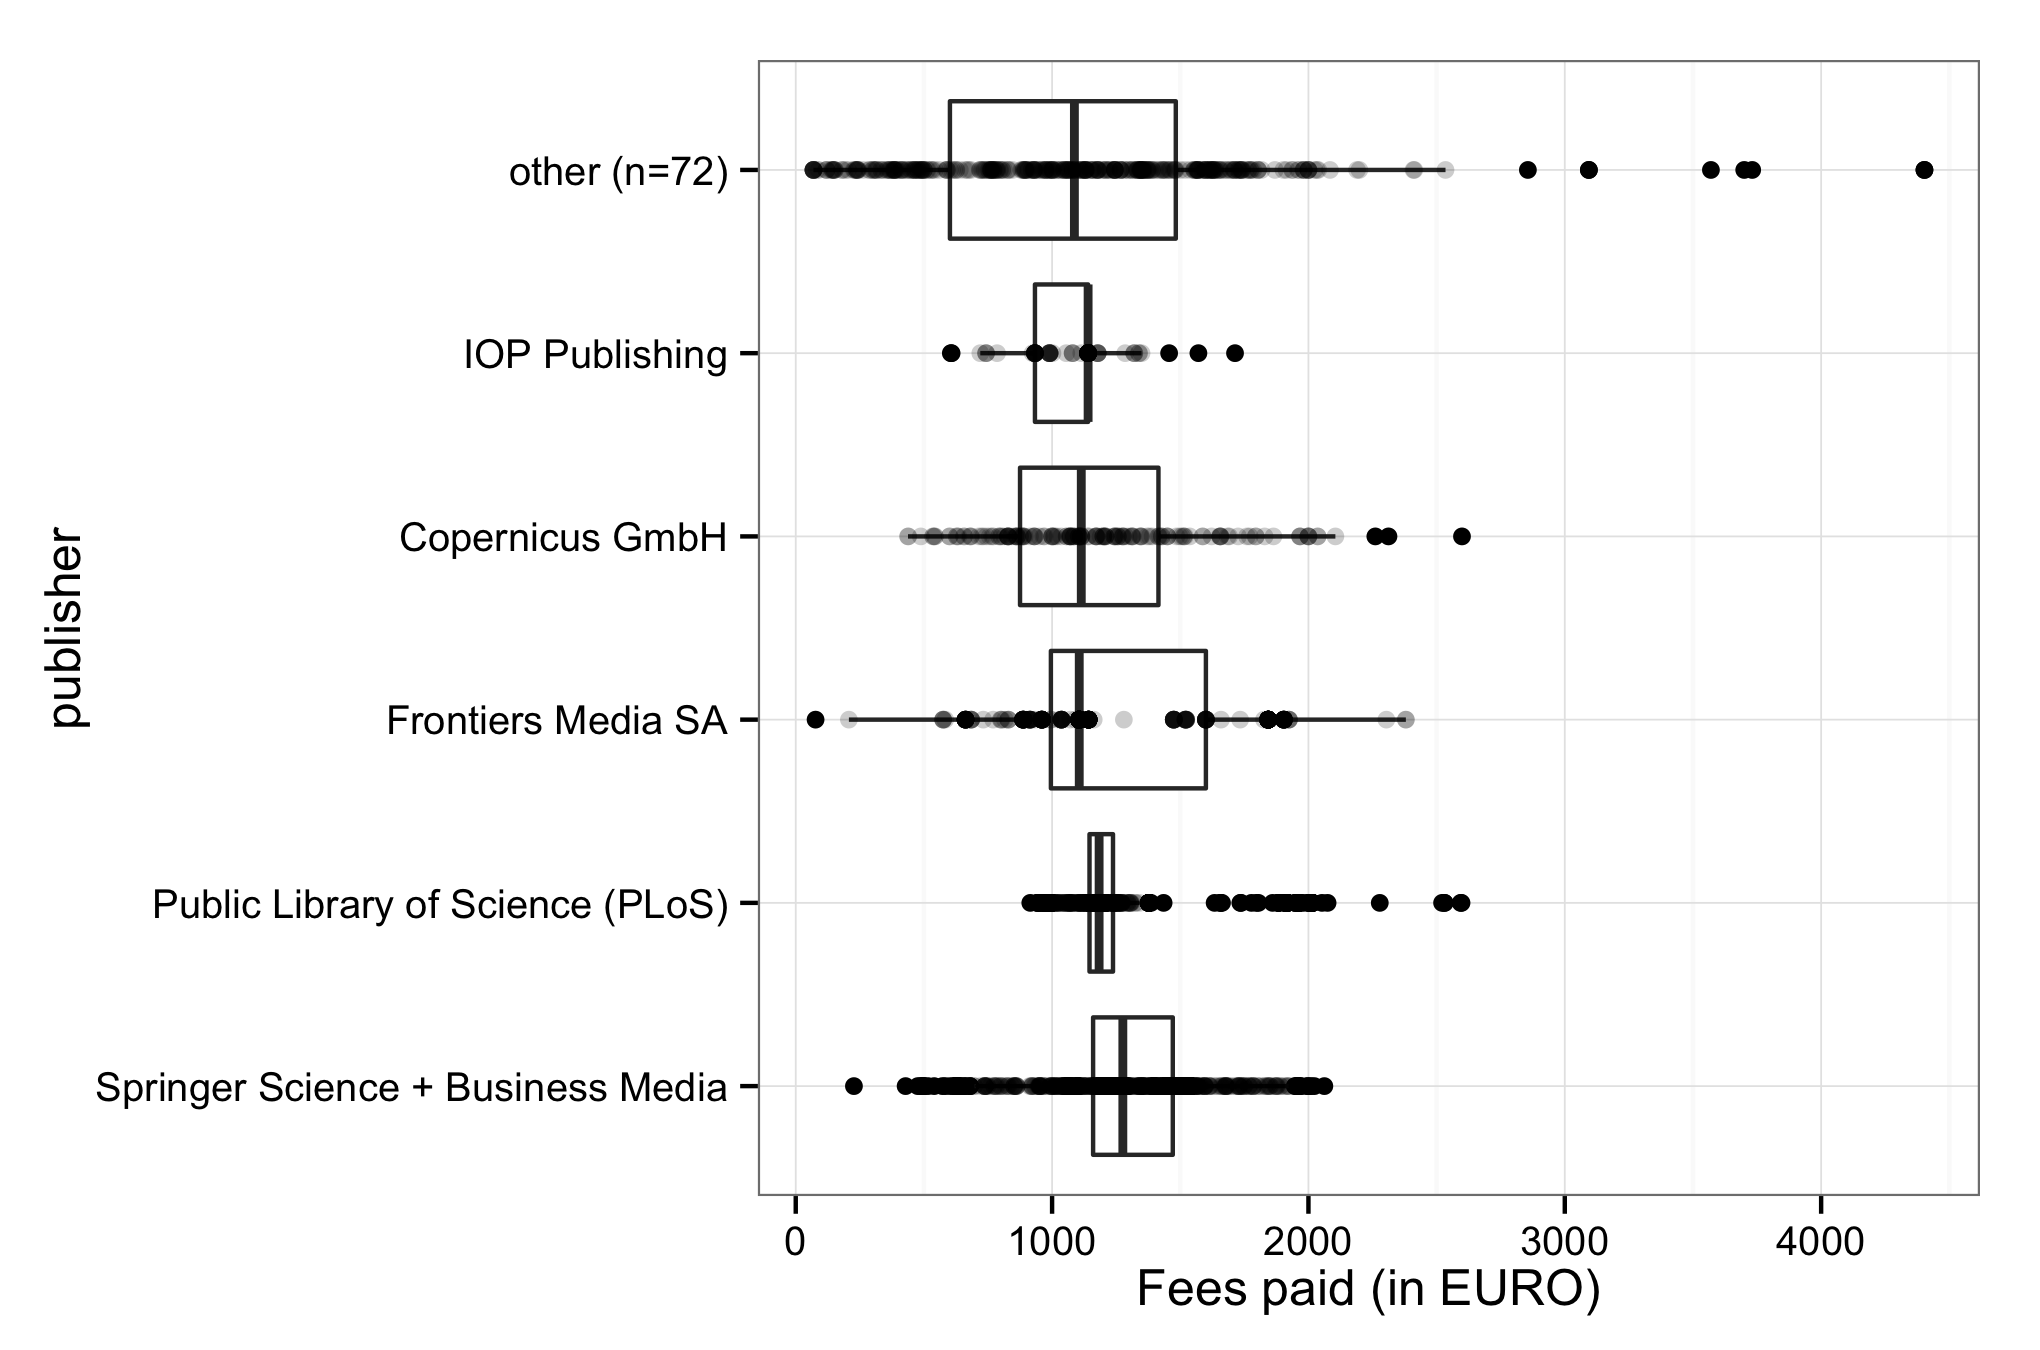
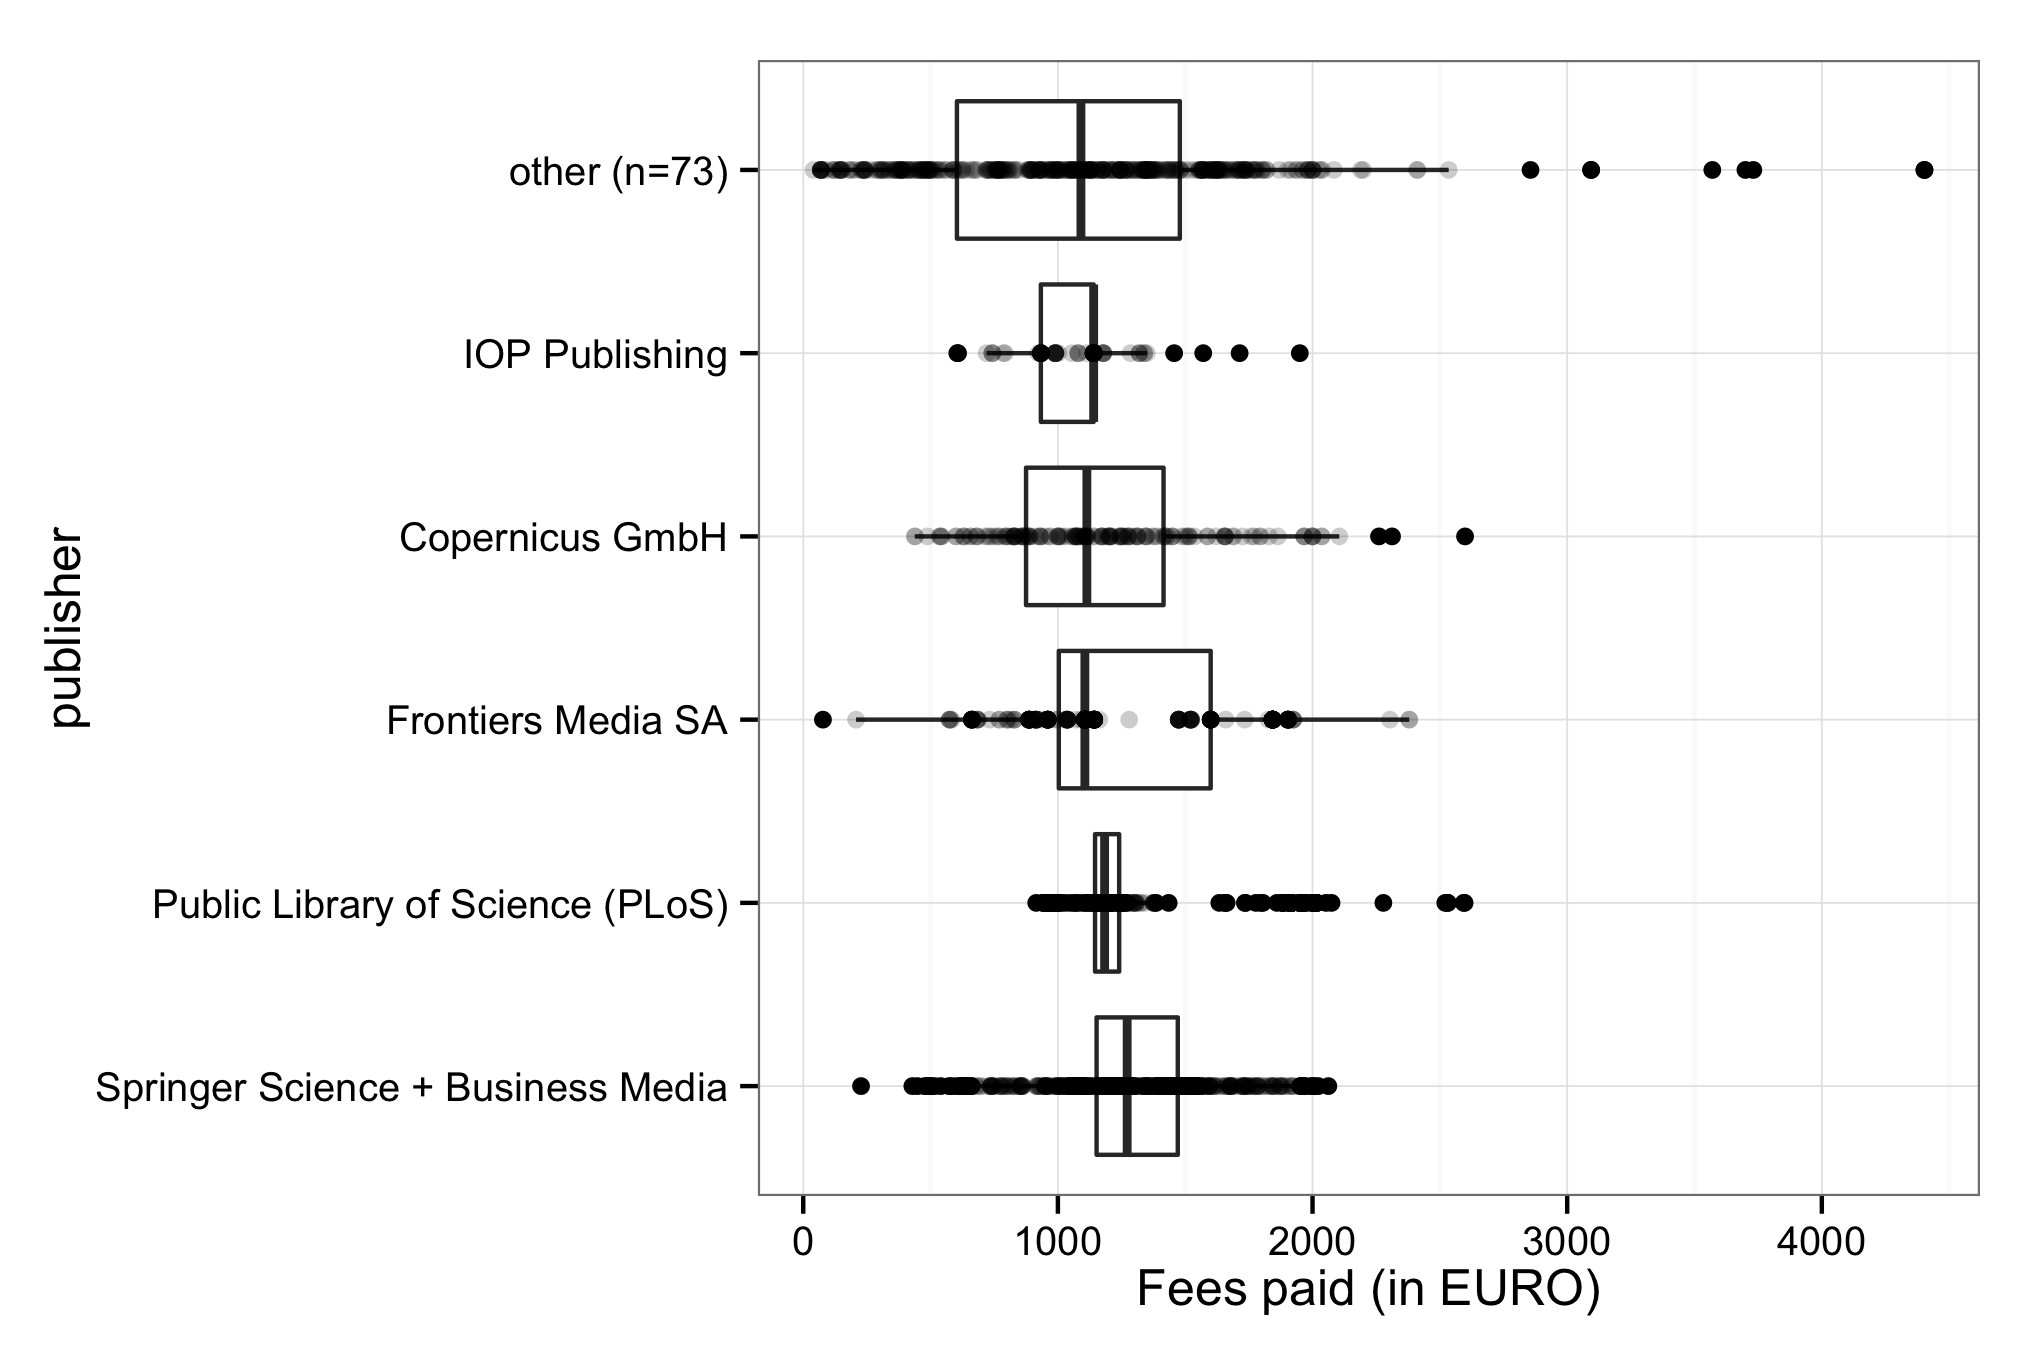
konstanz 2014

diff --git a/README.md b/README.md
@@ -46,7 +46,7 @@ The data content covers APCs as paid for by our central budget for the Max Planc
 
 
 
-At the moment, the dataset releases information on 2 674 articles, with total expenditure of 3 304 238€. Average fee is 1 235.7€.
+At the moment, the dataset releases information on 2 720 articles, with total expenditure of 3 359 836€. Average fee is 1 235.2€.
 
 View dataset on [GitHub](https://github.com/OpenAPC/openapc-de/blob/master/data/apc_de.csv).
 
@@ -65,7 +65,7 @@ View dataset on [GitHub](https://github.com/OpenAPC/openapc-de/blob/master/data/
 |Hannover U       |       50|             63908|          1278|
 |Heidelberg U     |       83|            112238|          1352|
 |KIT              |      296|            350114|          1183|
-|Konstanz U       |       85|            107776|          1268|
+|Konstanz U       |      131|            163374|          1247|
 |Leipzig U        |       60|             79603|          1327|
 |MPG              |     1046|           1315614|          1258|
 |Muenchen LMU     |      106|            153553|          1449|
